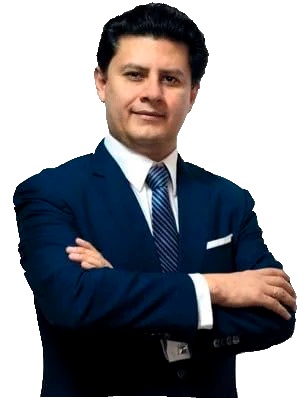
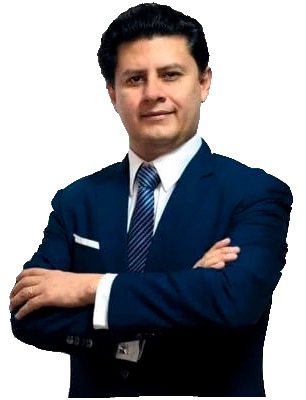
terminando accion popular

diff --git a/src/app/components/nuestro-partido/DB/candidatosJSON.ts b/src/app/components/nuestro-partido/DB/candidatosJSON.ts
@@ -14,21 +14,21 @@ export const candidatosJSON:ICandidato[] = [
     },
     {
         id: 1,
-        nombre: "Julio Abraham 2",
-        apellido: "Chávez Chiong",
-        cargo: "Presidente",
+        nombre: "Juan José",
+        apellido: "Abad Cabrera",
+        cargo: "Secretario General",
         descripcion: "Nacido en Callo el 22 de julio de 1981 es un político y abogado peruano.",
-        foto: "/candidatos/foto.png",
+        foto: "/candidatos/foto2.png",
         propuestas: [],
         descripcion2: "Fue el alcalde distrital de San Martín de Porres para el periodo 2019-2022."
     },
     {
         id: 2,
-        nombre: "Julio Abraham 3",
-        apellido: "Chávez Chiong",
-        cargo: "Presidente",
+        nombre: "María Eugenia",
+        apellido: "Nieva Muzurrieta",
+        cargo: "Vicepresidente",
         descripcion: "Nacido en Callo el 22 de julio de 1981 es un político y abogado peruano.",
-        foto: "/candidatos/foto.png",
+        foto: "/candidatos/foto3.png",
         propuestas: [],
         descripcion2: "Fue el alcalde distrital de San Martín de Porres para el periodo 2019-2022."
     },

diff --git a/src/app/components/nuestro-partido/nuestro-partido.component.css b/src/app/components/nuestro-partido/nuestro-partido.component.css
@@ -70,10 +70,9 @@ border-radius: 10px;
   width: 300px;
   height: 250px;
   object-fit: contain;
-  object-position: left;
+  object-position: right;
   right: 0;
   bottom: 0;
-  transform: scaleX(-1);
 }
 .description{
   margin: 40px 0;
@@ -120,11 +119,24 @@ border-radius: 10px;
     .fondo-candidatos{
       height: 800px;
     }
+    .candidato h1{
+      font-size: 3  5px;
+    }
     .slide-info{
       height: 100%;
       flex-direction: column;
     }
+    .texto{
+      position: static;
 
+      height: auto;
+      margin: 40px 0;
+      margin-top: 10px;
+
+    }
+    .foto{
+      position: static;
+    }
     .texto, .candidato{
       width: 90%;
     }

diff --git a/src/app/components/nuestro-partido/nuestro-partido.component.ts b/src/app/components/nuestro-partido/nuestro-partido.component.ts
@@ -36,7 +36,7 @@ register();
           <p>{{candidato.descripcion}}</p>
           <p>{{candidato.descripcion2}}</p></div>
           <button class="slide-button">Leer Biografía</button></div>
-          <div class="texto"><p>“Lorem ipsum dolor sit amet sit”</p><img class="foto" [src]="candidato.foto" alt=""></div>
+          <div class="texto"><p>“Volver a Belaunde”</p><img class="foto" [src]="candidato.foto" alt=""></div>
             
         </div>
       </div>

diff --git a/src/app/components/actualidad/actualidad.component.css b/src/app/components/actualidad/actualidad.component.css
@@ -89,6 +89,10 @@ article p {
   overflow: hidden;
   text-overflow: ellipsis;
 }
+a{
+  text-decoration: none;
+  color: #000;
+}
 @media (max-width: 1200px) {
   .section-title {
     max-width: 100%;
